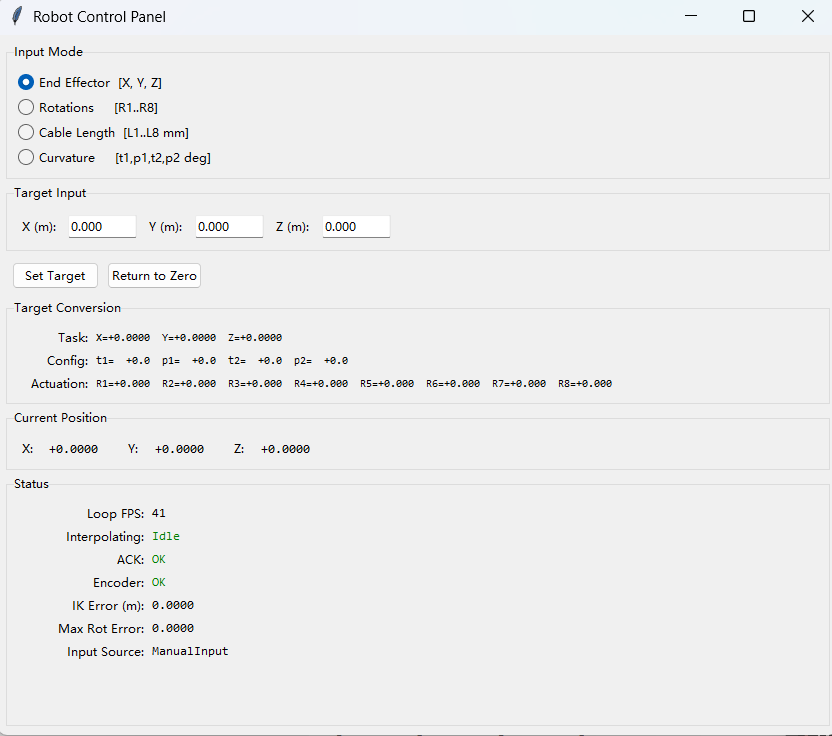
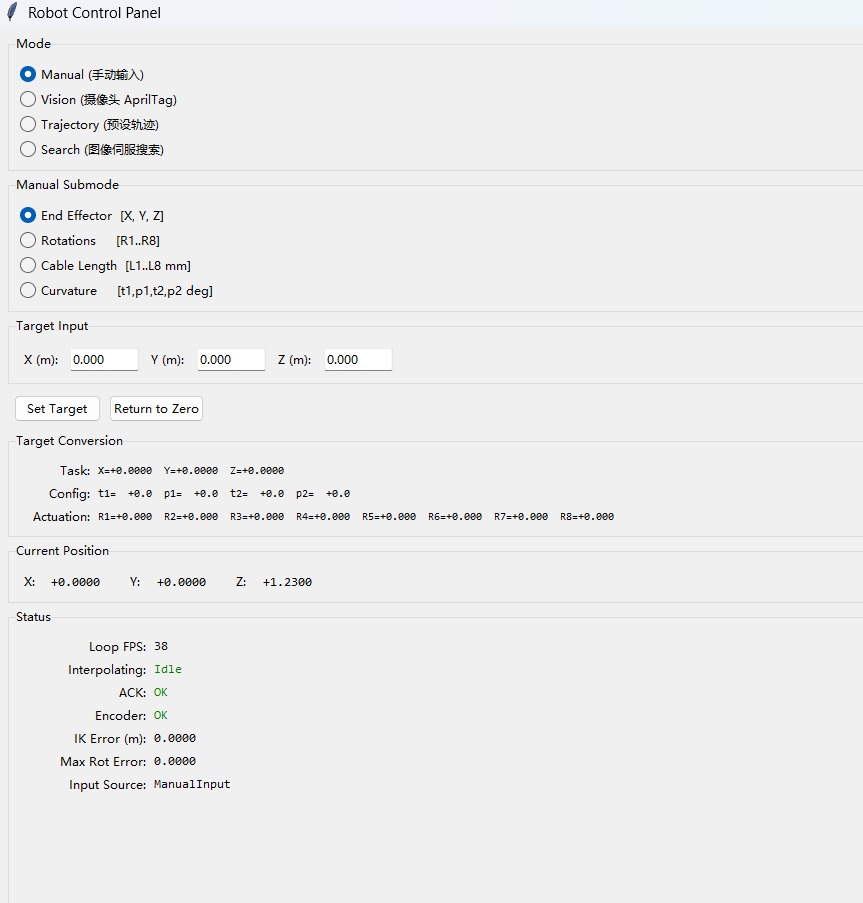
修复一些bug
- main.py: VisThread.stop() 增加 destroyWindow 清理, 模式切换 join 旧线程防竞争
- vis/mujoco_vis.py: launch_passive 设 show_left/right_ui=False
- input/sources.py: SearchInput 增加后台摄像头采集线程 _cam_loop
- README.md: 新增后续方向章节

diff --git a/input/sources.py b/input/sources.py
@@ -212,19 +212,21 @@ class SearchInput(InputSource):
         self._spool_circ = None
         self._cx = 640.0
         self._cy = 360.0
-        self._Kp = 0.03             # 像素偏差 → theta 增益 (rad/pixel)
-        self._Ka = 0.15             # 面积偏差 → theta2 增益
-        self._target_area = 8000    # 目标 tag 面积 (像素²)
-        self._scan_theta = 0.04     # 扫描弯曲幅度 (rad, ~2.3°)
-        self._scan_speed = 0.3      # 扫描频率 (Hz)
-        self._deadband_px = 40      # 像素死区 (像素)
-        self._deadband_area = 0.15  # 面积死区 (比例)
-        self._hold_frames = 15      # 死区内持续 N 帧后锁定 (约 1.5s)
+        self._Kp = 0.03
+        self._Ka = 0.15
+        self._target_area = 8000
+        self._scan_theta = 0.04
+        self._scan_speed = 0.3
+        self._deadband_px = 40
+        self._deadband_area = 0.15
+        self._hold_frames = 15
         self._t0 = time.time()
         self._lock = threading.Lock()
         self._latest_result = None
         self._hold_counter = 0
-        self._last_rots = None      # 锁定时保持的最后圈数
+        self._last_rots = None
+        self._running = False
+        self._cam_thread = None
 
     def start(self):
         from config import vision_cfg, robot_cfg
@@ -234,11 +236,28 @@ class SearchInput(InputSource):
         self._robot = MultiSectionRobot()
         self._spool_circ = np.pi * robot_cfg.spool_diameter
         self._tracker = VisionTracker()
+        # 后台线程持续采集摄像头帧，供 OpenCV VisThread 使用
+        self._running = True
+        self._cam_thread = threading.Thread(target=self._cam_loop, daemon=True)
+        self._cam_thread.start()
         log.info("Search 模式: 摄像头已打开, 图像中心=(%.0f, %.0f)", self._cx, self._cy)
 
     def stop(self):
+        self._running = False
+        if self._cam_thread:
+            self._cam_thread.join(timeout=1.0)
         if self._tracker:
             self._tracker.release()
+
+    def _cam_loop(self):
+        """后台采集线程：持续读帧，供 VisThread 和 get_direct_rotations 共用"""
+        while self._running:
+            result = self._tracker.get_pose()
+            if result is None:
+                time.sleep(0.001)
+                continue
+            with self._lock:
+                self._latest_result = result
 
     def get_target(self):
         return None  # 始终走 direct_rotations 路径
@@ -246,9 +265,8 @@ class SearchInput(InputSource):
     def get_direct_rotations(self):
         if self._tracker is None:
             return None
-        result = self._tracker.get_pose()
         with self._lock:
-            self._latest_result = result
+            result = self._latest_result
         if result is not None and result.get("pose") is not None:
             return self._servo_to_tag(result)
         # Tag 丢失 → 重置锁定状态 → 扫描

diff --git a/config.py b/config.py
@@ -63,7 +63,7 @@ class RobotConfig:
     section2_theta_max_deg: float = 30.0    # 第二部分单节最大弯曲角 (度)
 
     # --- 驱动器参数 ---
-    spool_diameter: float = 0.01        # 绳盘直径 (m)，绳缠绕在舵机轴上的圆盘直径
+    spool_diameter: float = 0.02        # 绳盘直径 (m)，绳缠绕在舵机轴上的圆盘直径
 
 
 # =====================================================
@@ -86,7 +86,7 @@ class VisionConfig:
         ], dtype=np.float32)
     )
     aruco_dict: str = "DICT_APRILTAG_36h11"  # AprilTag 字典类型
-    camera_index: int = 1               # 摄像头编号（0=内置，1=USB外置）
+    camera_index: int = 0               # 摄像头编号（0=内置，1=USB外置）
 
     # --- 相机参数（可选，设 0 表示用默认值）---
     camera_width: int = 1280            # 分辨率宽度（0=默认）
@@ -146,10 +146,10 @@ class SafetyConfig:
     ])
 
     # --- 目标位置变化限制 ---
-    max_position_change: float = 0.2       # 单步最大位置变化量 (m)
+    max_position_change: float = 0.02       # 单步最大位置变化量 (m)
 
     # --- 绳长变化阈值 ---
-    max_cable_delta: float = 0.1           # 单步最大绳长变化 (圈)
+    max_cable_delta: float = 0.01           # 单步最大绳长变化 (圈)
 
     # --- IK 惩罚函数权重 ---
     obstacle_penalty_weight: float = 0.01   # 障碍物排斥势场权重

diff --git a/main.py b/main.py
@@ -45,6 +45,7 @@ class VisThread(threading.Thread):
 
     def stop(self):
         self.running = False
+        cv2.destroyWindow("AprilTag Detection")
 
 
 def main():
@@ -167,6 +168,7 @@ def main():
                         # 先清理旧模式的资源
                         if vis_thread is not None:
                             vis_thread.stop()
+                            vis_thread.join(timeout=0.5)
                             vis_thread = None
                         if req_mode == "vision":
                             try:

diff --git a/vis/mujoco_vis.py b/vis/mujoco_vis.py
@@ -54,7 +54,11 @@ class MuJoCoVisThread(threading.Thread):
         log_interval = 60  # ~1 秒输出一次状态
 
         try:
-            with mujoco.viewer.launch_passive(model, data) as viewer:
+            with mujoco.viewer.launch_passive(
+                    model, data,
+                    show_left_ui=False,
+                    show_right_ui=False,
+            ) as viewer:
                 while viewer.is_running() and self.running:
                     with self.lock:
                         q = self.q.copy()
